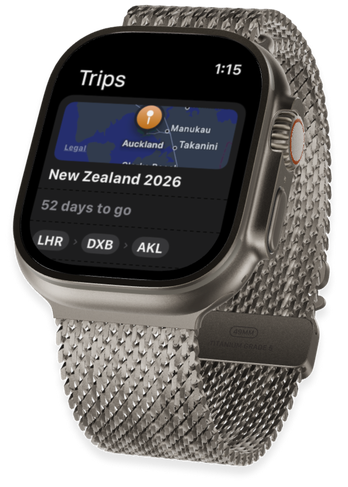
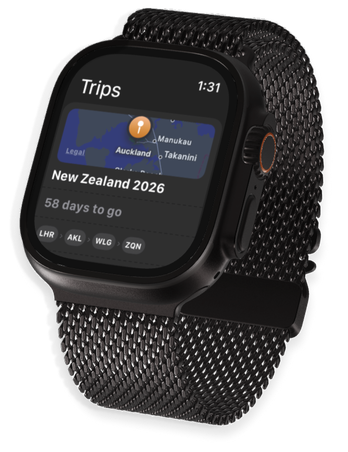
Black watch mockup with "Coming soon" tooltip
Swap in the black Apple Watch render, which matches the iPhone trip
(58 days to go, LHR > AKL > WLG > ZQN). Wrap it in a focusable span
with a "Coming soon to the Apple Watch" tooltip that reuses the hero
badge tooltip style, shown on hover, tap and keyboard focus and
right-aligned so it never covers the headline.

Claude-Session: https://claude.ai/code/session_01MoGMhY3UAd8EH2KBPAP8KY

diff --git a/styles.css b/styles.css
@@ -2290,8 +2290,14 @@ span.roadmap-column__heading { cursor:default; }
 }
 .hero-devices__watch {
   position: absolute; left: 136px; top: 241px;
-  width: 116px; height: auto;
+  width: 116px;
+  border-radius: 24px;
 }
+.hero-devices__watch img { display: block; width: 116px; height: auto; }
+.hero-devices__watch:focus-visible { outline: 3px solid #7776ff; outline-offset: 4px; }
+.hero-devices__watch .hero-devices__tooltip { left: auto; right: 0; }
+.hero-devices__watch:hover .hero-devices__tooltip,
+.hero-devices__watch:focus .hero-devices__tooltip { visibility: visible; opacity: 1; }
 .hero-intro {
   align-items: flex-start; gap: 26px; padding-bottom: 8px;
   text-align: left;
@@ -2323,7 +2329,8 @@ span.roadmap-column__heading { cursor:default; }
   .hero-intro .definition { line-height: 1.5; }
 }
 
-.hero-downloads__tooltip {
+.hero-downloads__tooltip,
+.hero-devices__tooltip {
   position: absolute;
   z-index: 5;
   bottom: calc(100% + 10px);

diff --git a/index.html b/index.html
@@ -88,7 +88,10 @@
           </div>
           <div class="hero-devices">
             <img class="hero-devices__iphone" src="assets/hero-iphone.png" width="194" height="419" alt="Teara on iPhone showing upcoming trips" fetchpriority="high" />
-            <img class="hero-devices__watch" src="assets/hero-watch.png" width="116" height="162" alt="Teara on Apple Watch showing your next trip" />
+            <span class="hero-devices__watch" tabindex="0" aria-describedby="watch-tooltip">
+              <img src="assets/hero-watch.png" width="116" height="151" alt="Teara on Apple Watch showing your next trip" />
+              <span class="hero-devices__tooltip" id="watch-tooltip" role="tooltip">Coming soon to the Apple Watch</span>
+            </span>
           </div>
           <div class="hero-intro">
             <img class="hero-brand-icon" src="assets/teara-app-icon.png" width="80" height="81" alt="Teara" />

diff --git a/CLAUDE.md b/CLAUDE.md
@@ -30,7 +30,7 @@ Then open http://localhost:8080/. Check both mobile and desktop widths and both 
 
 ## Deliberate decisions to preserve
 
-- Apple Watch mockup sits over the lower right of the iPhone in the hero (`assets/hero-watch.png`, 116px wide). Keep the watch and phone screens consistent.
+- Apple Watch mockup (black, `assets/hero-watch.png`, 116px wide) sits over the lower right of the iPhone in the hero, with a "Coming soon to the Apple Watch" tooltip on hover, tap and keyboard focus. Keep the watch and phone screens consistent (same trip, days to go and route).
 - Official App Store SVG badge; original TestFlight badge and app icon.
 - Mobile menu hides only the TestFlight link and shortens the CTA to "Download".
 - Feature videos play in sequence when the first one enters the viewport, and replay on hover, focus or click.
